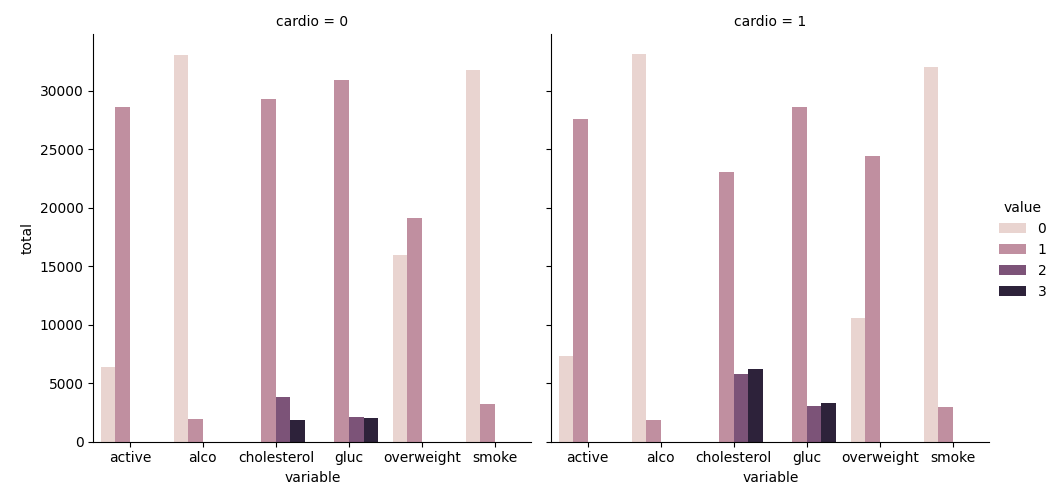
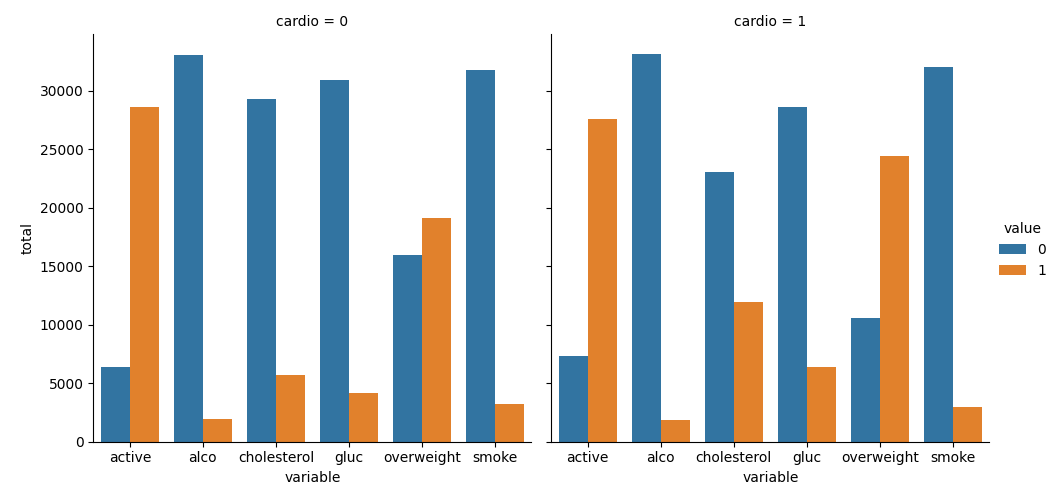
fixed

Changed region(s): [[0.0936, 0.09, 0.4991, 0.9], [0.5302, 0.09, 0.9357, 0.9], [0.9357, 0.39, 0.9981, 0.6]]

diff --git a/test_module.py b/test_module.py
@@ -24,7 +24,7 @@ class CatPlotTestCase(unittest.TestCase):
 
     def test_bar_plot_number_of_bars(self):
         actual = len([rect for rect in self.ax.get_children() if isinstance(rect, mpl.patches.Rectangle)])
-        expected = 15
+        expected = 13
         self.assertEqual(actual, expected, "Expected a different number of bars chart.")
 
 
@@ -42,9 +42,8 @@ class HeatMapTestCase(unittest.TestCase):
     
     def test_heat_map_values(self):
         actual = [text.get_text() for text in self.ax.get_default_bbox_extra_artists() if isinstance(text, mpl.text.Text)]        
-        expected = ['0.0', '0.0', '-0.0', '0.0', '-0.1', '0.5', '0.0', '0.1', '0.1', '0.3', '0.0', '0.0', '0.0', '0.0', '0.0', '0.0', '0.2', '0.1', '0.0', '0.2', '0.1', '0.0', '0.2', '-0.0', '-0.1', '0.1', '0.0', '0.2', '0.0', '0.1', '-0.0', '-0.0', '0.1', '0.0', '0.1', '0.5', '-0.0', '-0.0', '0.3', '0.2', '0.1', '-0.0', '0.0', '0.0', '-0.0', '-0.0', '-0.0', '0.2', '0.1', '0.1', '0.0', '0.0', '0.0', '0.0', '0.3', '0.0', '-0.0', '0.0', '-0.0', '-0.0', '-0.0', '0.0', '0.0', '-0.0', '0.0', '0.0', '0.0', '0.2', '0.0', '-0.0', '0.2', '0.1', '0.3', '0.2', '0.1', '-0.0', '-0.0', '-0.0', '-0.0', '0.1', '-0.1', '-0.1', '0.7', '0.0', '0.2', '0.1', '0.1', '-0.0', '0.0', '-0.0', '0.1']
-        print(actual)
-        print(expected)
+        expected = ['0.0', '0.0', '-0.0', '0.0', '-0.1', '0.5', '0.0', '0.1', '0.1', '0.3', '0.0', '0.0', '0.0', '0.0', '0.0', '0.0', '0.2', '0.1', '0.0', '0.2', '0.1', '0.0', '0.1', '-0.0', '-0.1', '0.1', '0.0', '0.2', '0.0', '0.1', '-0.0', '-0.0', '0.1', '0.0', '0.1', '0.4', '-0.0', '-0.0', '0.3', '0.2', '0.1', '-0.0', '0.0', '0.0', '-0.0', '-0.0', '-0.0', '0.2', '0.1', '0.1', '0.0', '0.0', '0.0', '0.0', '0.3', '0.0', '-0.0', '0.0', '-0.0', '-0.0', '-0.0', '0.0', '0.0', '-0.0', '0.0', '0.0', '0.0', '0.2', '0.0', '-0.0', '0.2', '0.1', '0.3', '0.2', '0.1', '-0.0', '-0.0', '-0.0', '-0.0', '0.1', '-0.1', '-0.1', '0.7', '0.0', '0.2', '0.1', '0.1', '-0.0', '0.0', '-0.0', '0.1']
+        
         self.assertEqual(actual, expected, "Expected different values in heat map.")
 
 if __name__ == "__main__":

diff --git a/medical_data_visualizer.py b/medical_data_visualizer.py
@@ -12,7 +12,8 @@ df = pd.read_csv('medical_examination.csv')
 df['overweight'] = np.where(df['weight']/((df['height']/100) ** 2) > 25, 1, 0)
 
 # 3
-
+df['cholesterol'] = (df['cholesterol'] > 1).astype(int)
+df['gluc'] = (df['gluc'] > 1).astype(int)
 
 # 4
 def draw_cat_plot():
